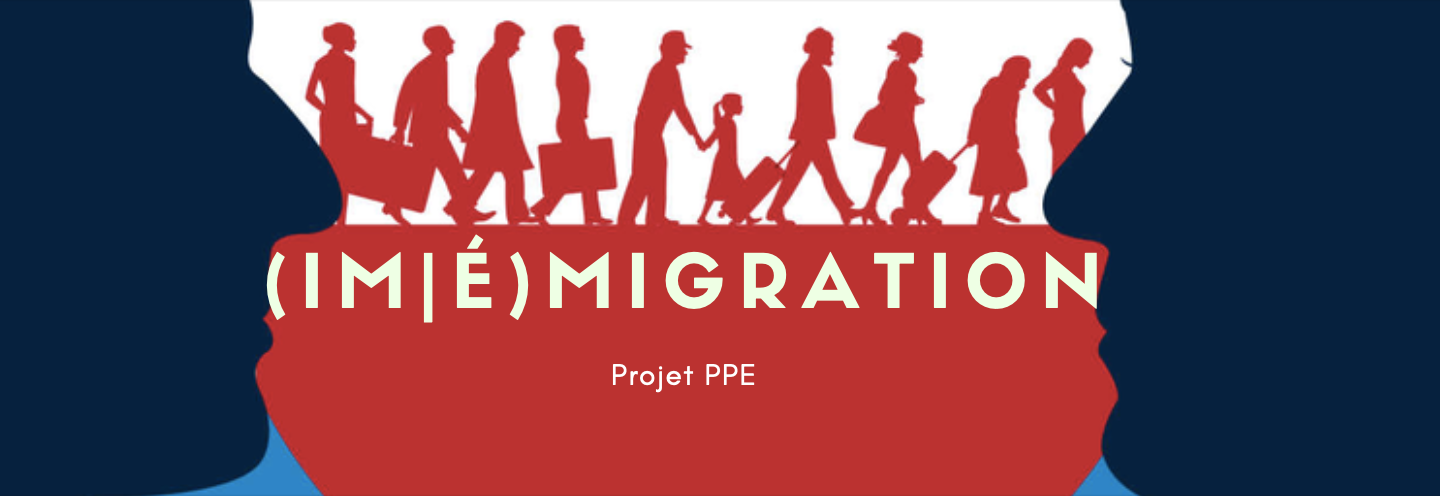
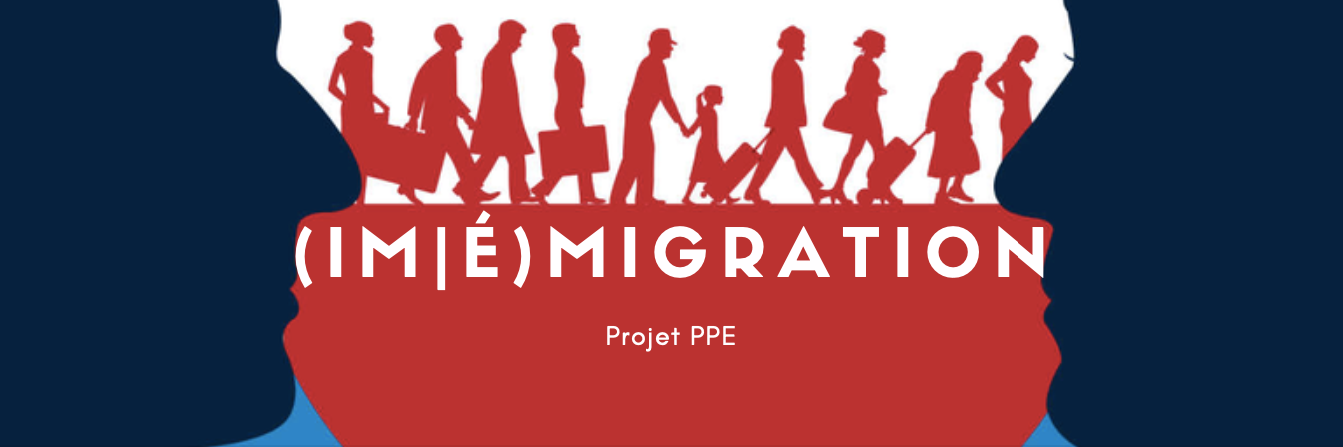
Modifications sur le site + modification de l'image du header (par Micha)

Changed region(s): [[0.0916, 0.0, 0.8243, 1.0], [0.4274, 0.7271, 0.5495, 0.7852]]

diff --git a/index.html b/index.html
@@ -51,17 +51,37 @@
 			</div>
 		</nav>
 		<!--CONTENU-->
-		<h1 class="title has-text-centered" id="introduction">Introduction</h1>
-		<p class="block has-text-centered">
-			C'est l'introduction ici, on mettra des images étouC'est l'introduction ici, on mettra des images étouC'est l'introduction ici, on mettra des images étouC'est l'introduction ici, on mettra des images étouC'est l'introduction ici, on mettra des images étouC'est l'introduction ici, on mettra des images étouC'est l'introduction ici, on mettra des images étouC'est l'introduction ici, on mettra des images étouC'est l'introduction ici, on mettra des images étouC'est l'introduction ici, on mettra des images étouC'est l'introduction ici, on mettra des images étouC'est l'introduction ici, on mettra des images étouC'est l'introduction ici, on mettra des images étouC'est l'introduction ici, on mettra des images étouC'est l'introduction ici, on mettra des images étouC'est l'introduction ici, on mettra des images étouC'est l'introduction ici, on mettra des images étouC'est l'introduction ici, on mettra des images étouC'est l'introduction ici, on mettra des images étouC'est l'introduction ici, on mettra des images étouC'est l'introduction ici, on mettra des images étouC'est l'introduction ici, on mettra des images étouC'est l'introduction ici, on mettra des images étouC'est l'introduction ici, on mettra des images étouC'est l'introduction ici, on mettra des images étouC'est l'introduction ici, on mettra des images étouC'est l'introduction ici, on mettra des images étouC'est l'introduction ici, on mettra des images étouC'est l'introduction ici, on mettra des images étouC'est l'introduction ici, on mettra des images étouC'est l'introduction ici, on mettra des images étouC'est l'introduction ici, on mettra des images étouC'est l'introduction ici, on mettra des images étouC'est l'introduction ici, on mettra des images étouC'est l'introduction ici, on mettra des images étouC'est l'introduction ici, on mettra des images étouC'est l'introduction ici, on mettra des images étouC'est l'introduction ici, on mettra des images étouC'est l'introduction ici, on mettra des images étouC'est l'introduction ici, on mettra des images étouC'est l'introduction ici, on mettra des images étouC'est l'introduction ici, on mettra des images étouC'est l'introduction ici, on mettra des images étouC'est l'introduction ici, on mettra des images étouC'est l'introduction ici, on mettra des images étouC'est l'introduction ici, on mettra des images étouC'est l'introduction ici, on mettra des images étouC'est l'introduction ici, on mettra des images étouC'est l'introduction ici, on mettra des images étouC'est l'introduction ici, on mettra des images étouC'est l'introduction ici, on mettra des images étouC'est l'introduction ici, on mettra des images étouC'est l'introduction ici, on mettra des images étouC'est l'introduction ici, on mettra des images étouC'est l'introduction ici, on mettra des images étouC'est l'introduction ici, on mettra des images étouC'est l'introduction ici, on mettra des images étouC'est l'introduction ici, on mettra des images étouC'est l'introduction ici, on mettra des images étouC'est l'introduction ici, on mettra des images étouC'est l'introduction ici, on mettra des images étouC'est l'introduction ici, on mettra des images étouC'est l'introduction ici, on mettra des images étouC'est l'introduction ici, on mettra des images étouC'est l'introduction ici, on mettra des images étouC'est l'introduction ici, on mettra des images étouC'est l'introduction ici, on mettra des images étouC'est l'introduction ici, on mettra des images étouC'est l'introduction ici, on mettra des images étouC'est l'introduction ici, on mettra des images étouC'est l'introduction ici, on mettra des images étouC'est l'introduction ici, on mettra des images étouC'est l'introduction ici, on mettra des images étouC'est l'introduction ici, on mettra des images étouC'est l'introduction ici, on mettra des images étouC'est l'introduction ici, on mettra des images étouC'est l'introduction ici, on mettra des images étouC'est l'introduction ici, on mettra des images étouC'est l'introduction ici, on mettra des images étouC'est l'introduction ici, on mettra des images étouC'est l'introduction ici, on mettra des images étouC'est l'introduction ici, on mettra des images étouC'est l'introduction ici, on mettra des images étouC'est l'introduction ici, on mettra des images étouC'est l'introduction ici, on mettra des images étouC'est l'introduction ici, on mettra des images étouC'est l'introduction ici, on mettra des images étouC'est l'introduction ici, on mettra des images étouC'est l'introduction ici, on mettra des images étouC'est l'introduction ici, on mettra des images étouC'est l'introduction ici, on mettra des images étouC'est l'introduction ici, on mettra des images étou
-		</p>
-		<h1 class="title has-text-centered" id="analyse">Analyse</h1>
-		<p class="block has-text-centered">
-			C'est l'introduction ici, on mettra des images étouC'est l'introduction ici, on mettra des images étouC'est l'introduction ici, on mettra des images étouC'est l'introduction ici, on mettra des images étouC'est l'introduction ici, on mettra des images étouC'est l'introduction ici, on mettra des images étouC'est l'introduction ici, on mettra des images étouC'est l'introduction ici, on mettra des images étouC'est l'introduction ici, on mettra des images étouC'est l'introduction ici, on mettra des images étouC'est l'introduction ici, on mettra des images étouC'est l'introduction ici, on mettra des images étouC'est l'introduction ici, on mettra des images étouC'est l'introduction ici, on mettra des images étouC'est l'introduction ici, on mettra des images étouC'est l'introduction ici, on mettra des images étouC'est l'introduction ici, on mettra des images étouC'est l'introduction ici, on mettra des images étouC'est l'introduction ici, on mettra des images étouC'est l'introduction ici, on mettra des images étouC'est l'introduction ici, on mettra des images étouC'est l'introduction ici, on mettra des images étouC'est l'introduction ici, on mettra des images étouC'est l'introduction ici, on mettra des images étouC'est l'introduction ici, on mettra des images étouC'est l'introduction ici, on mettra des images étouC'est l'introduction ici, on mettra des images étouC'est l'introduction ici, on mettra des images étouC'est l'introduction ici, on mettra des images étouC'est l'introduction ici, on mettra des images étouC'est l'introduction ici, on mettra des images étouC'est l'introduction ici, on mettra des images étouC'est l'introduction ici, on mettra des images étouC'est l'introduction ici, on mettra des images étouC'est l'introduction ici, on mettra des images étouC'est l'introduction ici, on mettra des images étouC'est l'introduction ici, on mettra des images étouC'est l'introduction ici, on mettra des images étouC'est l'introduction ici, on mettra des images étouC'est l'introduction ici, on mettra des images étouC'est l'introduction ici, on mettra des images étouC'est l'introduction ici, on mettra des images étouC'est l'introduction ici, on mettra des images étouC'est l'introduction ici, on mettra des images étouC'est l'introduction ici, on mettra des images étouC'est l'introduction ici, on mettra des images étouC'est l'introduction ici, on mettra des images étouC'est l'introduction ici, on mettra des images étouC'est l'introduction ici, on mettra des images étouC'est l'introduction ici, on mettra des images étouC'est l'introduction ici, on mettra des images étouC'est l'introduction ici, on mettra des images étouC'est l'introduction ici, on mettra des images étouC'est l'introduction ici, on mettra des images étouC'est l'introduction ici, on mettra des images étouC'est l'introduction ici, on mettra des images étouC'est l'introduction ici, on mettra des images étouC'est l'introduction ici, on mettra des images étouC'est l'introduction ici, on mettra des images étouC'est l'introduction ici, on mettra des images étouC'est l'introduction ici, on mettra des images étouC'est l'introduction ici, on mettra des images étouC'est l'introduction ici, on mettra des images étouC'est l'introduction ici, on mettra des images étouC'est l'introduction ici, on mettra des images étouC'est l'introduction ici, on mettra des images étouC'est l'introduction ici, on mettra des images étouC'est l'introduction ici, on mettra des images étouC'est l'introduction ici, on mettra des images étouC'est l'introduction ici, on mettra des images étouC'est l'introduction ici, on mettra des images étouC'est l'introduction ici, on mettra des images étouC'est l'introduction ici, on mettra des images étouC'est l'introduction ici, on mettra des images étouC'est l'introduction ici, on mettra des images étouC'est l'introduction ici, on mettra des images étouC'est l'introduction ici, on mettra des images étouC'est l'introduction ici, on mettra des images étouC'est l'introduction ici, on mettra des images étouC'est l'introduction ici, on mettra des images étouC'est l'introduction ici, on mettra des images étouC'est l'introduction ici, on mettra des images étouC'est l'introduction ici, on mettra des images étouC'est l'introduction ici, on mettra des images étouC'est l'introduction ici, on mettra des images étouC'est l'introduction ici, on mettra des images étouC'est l'introduction ici, on mettra des images étouC'est l'introduction ici, on mettra des images étouC'est l'introduction ici, on mettra des images étouC'est l'introduction ici, on mettra des images étouC'est l'introduction ici, on mettra des images étouC'est l'introduction ici, on mettra des images étou
-		</p>
-		<h1 class="title has-text-centered" id="aPropos">À propos</h1>
-		<p class="block has-text-centered">
-			C'est l'introduction ici, on mettra des images étouC'est l'introduction ici, on mettra des images étouC'est l'introduction ici, on mettra des images étouC'est l'introduction ici, on mettra des images étouC'est l'introduction ici, on mettra des images étouC'est l'introduction ici, on mettra des images étouC'est l'introduction ici, on mettra des images étouC'est l'introduction ici, on mettra des images étouC'est l'introduction ici, on mettra des images étouC'est l'introduction ici, on mettra des images étouC'est l'introduction ici, on mettra des images étouC'est l'introduction ici, on mettra des images étouC'est l'introduction ici, on mettra des images étouC'est l'introduction ici, on mettra des images étouC'est l'introduction ici, on mettra des images étouC'est l'introduction ici, on mettra des images étouC'est l'introduction ici, on mettra des images étouC'est l'introduction ici, on mettra des images étouC'est l'introduction ici, on mettra des images étouC'est l'introduction ici, on mettra des images étouC'est l'introduction ici, on mettra des images étouC'est l'introduction ici, on mettra des images étouC'est l'introduction ici, on mettra des images étouC'est l'introduction ici, on mettra des images étouC'est l'introduction ici, on mettra des images étouC'est l'introduction ici, on mettra des images étouC'est l'introduction ici, on mettra des images étouC'est l'introduction ici, on mettra des images étouC'est l'introduction ici, on mettra des images étouC'est l'introduction ici, on mettra des images étouC'est l'introduction ici, on mettra des images étouC'est l'introduction ici, on mettra des images étouC'est l'introduction ici, on mettra des images étouC'est l'introduction ici, on mettra des images étouC'est l'introduction ici, on mettra des images étouC'est l'introduction ici, on mettra des images étouC'est l'introduction ici, on mettra des images étouC'est l'introduction ici, on mettra des images étouC'est l'introduction ici, on mettra des images étouC'est l'introduction ici, on mettra des images étouC'est l'introduction ici, on mettra des images étouC'est l'introduction ici, on mettra des images étouC'est l'introduction ici, on mettra des images étouC'est l'introduction ici, on mettra des images étouC'est l'introduction ici, on mettra des images étouC'est l'introduction ici, on mettra des images étouC'est l'introduction ici, on mettra des images étouC'est l'introduction ici, on mettra des images étouC'est l'introduction ici, on mettra des images étouC'est l'introduction ici, on mettra des images étouC'est l'introduction ici, on mettra des images étouC'est l'introduction ici, on mettra des images étouC'est l'introduction ici, on mettra des images étouC'est l'introduction ici, on mettra des images étouC'est l'introduction ici, on mettra des images étouC'est l'introduction ici, on mettra des images étouC'est l'introduction ici, on mettra des images étouC'est l'introduction ici, on mettra des images étouC'est l'introduction ici, on mettra des images étouC'est l'introduction ici, on mettra des images étouC'est l'introduction ici, on mettra des images étouC'est l'introduction ici, on mettra des images étouC'est l'introduction ici, on mettra des images étouC'est l'introduction ici, on mettra des images étouC'est l'introduction ici, on mettra des images étouC'est l'introduction ici, on mettra des images étouC'est l'introduction ici, on mettra des images étouC'est l'introduction ici, on mettra des images étouC'est l'introduction ici, on mettra des images étouC'est l'introduction ici, on mettra des images étouC'est l'introduction ici, on mettra des images étouC'est l'introduction ici, on mettra des images étouC'est l'introduction ici, on mettra des images étouC'est l'introduction ici, on mettra des images étouC'est l'introduction ici, on mettra des images étouC'est l'introduction ici, on mettra des images étouC'est l'introduction ici, on mettra des images étouC'est l'introduction ici, on mettra des images étouC'est l'introduction ici, on mettra des images étouC'est l'introduction ici, on mettra des images étouC'est l'introduction ici, on mettra des images étouC'est l'introduction ici, on mettra des images étouC'est l'introduction ici, on mettra des images étouC'est l'introduction ici, on mettra des images étouC'est l'introduction ici, on mettra des images étouC'est l'introduction ici, on mettra des images étouC'est l'introduction ici, on mettra des images étouC'est l'introduction ici, on mettra des images étouC'est l'introduction ici, on mettra des images étouC'est l'introduction ici, on mettra des images étouC'est l'introduction ici, on mettra des images étouC'est l'introduction ici, on mettra des images étou
-		</p>
+		<div class="has-text-centered", style="background-color: #3084c5;">
+			<h1 class="title" id="introduction" style="background-color: #bb3230;">Introduction</h1>
+			<div class="columns">
+				<div class="column is-one-fifth"></div>
+				<div class="column">
+					<p class="block" style="background-color: white;">
+						C'est l'introduction ici, on mettra des images étouC'est l'introduction ici, on mettra des images étouC'est l'introduction ici, on mettra des images étouC'est l'introduction ici, on mettra des images étouC'est l'introduction ici, on mettra des images étouC'est l'introduction ici, on mettra des images étouC'est l'introduction ici, on mettra des images étouC'est l'introduction ici, on mettra des images étouC'est l'introduction ici, on mettra des images étouC'est l'introduction ici, on mettra des images étouC'est l'introduction ici, on mettra des images étouC'est l'introduction ici, on mettra des images étouC'est l'introduction ici, on mettra des images étouC'est l'introduction ici, on mettra des images étouC'est l'introduction ici, on mettra des images étouC'est l'introduction ici, on mettra des images étouC'est l'introduction ici, on mettra des images étouC'est l'introduction ici, on mettra des images étouC'est l'introduction ici, on mettra des images étouC'est l'introduction ici, on mettra des images étouC'est l'introduction ici, on mettra des images étouC'est l'introduction ici, on mettra des images étouC'est l'introduction ici, on mettra des images étouC'est l'introduction ici, on mettra des images étouC'est l'introduction ici, on mettra des images étouC'est l'introduction ici, on mettra des images étouC'est l'introduction ici, on mettra des images étouC'est l'introduction ici, on mettra des images étouC'est l'introduction ici, on mettra des images étouC'est l'introduction ici, on mettra des images étouC'est l'introduction ici, on mettra des images étouC'est l'introduction ici, on mettra des images étouC'est l'introduction ici, on mettra des images étouC'est l'introduction ici, on mettra des images étouC'est l'introduction ici, on mettra des images étouC'est l'introduction ici, on mettra des images étouC'est l'introduction ici, on mettra des images étouC'est l'introduction ici, on mettra des images étouC'est l'introduction ici, on mettra des images étouC'est l'introduction ici, on mettra des images étouC'est l'introduction ici, on mettra des images étouC'est l'introduction ici, on mettra des images étouC'est l'introduction ici, on mettra des images étouC'est l'introduction ici, on mettra des images étouC'est l'introduction ici, on mettra des images étouC'est l'introduction ici, on mettra des images étouC'est l'introduction ici, on mettra des images étouC'est l'introduction ici, on mettra des images étouC'est l'introduction ici, on mettra des images étouC'est l'introduction ici, on mettra des images étouC'est l'introduction ici, on mettra des images étouC'est l'introduction ici, on mettra des images étouC'est l'introduction ici, on mettra des images étouC'est l'introduction ici, on mettra des images étouC'est l'introduction ici, on mettra des images étouC'est l'introduction ici, on mettra des images étouC'est l'introduction ici, on mettra des images étouC'est l'introduction ici, on mettra des images étouC'est l'introduction ici, on mettra des images étouC'est l'introduction ici, on mettra des images étouC'est l'introduction ici, on mettra des images étouC'est l'introduction ici, on mettra des images étouC'est l'introduction ici, on mettra des images étouC'est l'introduction ici, on mettra des images étouC'est l'introduction ici, on mettra des images étouC'est l'introduction ici, on mettra des images étouC'est l'introduction ici, on mettra des images étouC'est l'introduction ici, on mettra des images étouC'est l'introduction ici, on mettra des images étouC'est l'introduction ici, on mettra des images étouC'est l'introduction ici, on mettra des images étouC'est l'introduction ici, on mettra des images étouC'est l'introduction ici, on mettra des images étouC'est l'introduction ici, on mettra des images étouC'est l'introduction ici, on mettra des images étouC'est l'introduction ici, on mettra des images étouC'est l'introduction ici, on mettra des images étouC'est l'introduction ici, on mettra des images étouC'est l'introduction ici, on mettra des images étouC'est l'introduction ici, on mettra des images étouC'est l'introduction ici, on mettra des images étouC'est l'introduction ici, on mettra des images étouC'est l'introduction ici, on mettra des images étouC'est l'introduction ici, on mettra des images étouC'est l'introduction ici, on mettra des images étouC'est l'introduction ici, on mettra des images étouC'est l'introduction ici, on mettra des images étouC'est l'introduction ici, on mettra des images étouC'est l'introduction ici, on mettra des images étouC'est l'introduction ici, on mettra des images étouC'est l'introduction ici, on mettra des images étouC'est l'introduction ici, on mettra des images étou
+					</p>
+				</div>
+				<div class="column is-one-fifth"></div>
+			</div>
+			<h1 class="title" id="analyse" style="background-color: #bb3230;">Analyse</h1>
+			<div class="columns">
+				<div class="column is-one-fifth"></div>
+				<div class="column">
+					<p class="block" style="background-color: white;">
+						C'est l'introduction ici, on mettra des images étouC'est l'introduction ici, on mettra des images étouC'est l'introduction ici, on mettra des images étouC'est l'introduction ici, on mettra des images étouC'est l'introduction ici, on mettra des images étouC'est l'introduction ici, on mettra des images étouC'est l'introduction ici, on mettra des images étouC'est l'introduction ici, on mettra des images étouC'est l'introduction ici, on mettra des images étouC'est l'introduction ici, on mettra des images étouC'est l'introduction ici, on mettra des images étouC'est l'introduction ici, on mettra des images étouC'est l'introduction ici, on mettra des images étouC'est l'introduction ici, on mettra des images étouC'est l'introduction ici, on mettra des images étouC'est l'introduction ici, on mettra des images étouC'est l'introduction ici, on mettra des images étouC'est l'introduction ici, on mettra des images étouC'est l'introduction ici, on mettra des images étouC'est l'introduction ici, on mettra des images étouC'est l'introduction ici, on mettra des images étouC'est l'introduction ici, on mettra des images étouC'est l'introduction ici, on mettra des images étouC'est l'introduction ici, on mettra des images étouC'est l'introduction ici, on mettra des images étouC'est l'introduction ici, on mettra des images étouC'est l'introduction ici, on mettra des images étouC'est l'introduction ici, on mettra des images étouC'est l'introduction ici, on mettra des images étouC'est l'introduction ici, on mettra des images étouC'est l'introduction ici, on mettra des images étouC'est l'introduction ici, on mettra des images étouC'est l'introduction ici, on mettra des images étouC'est l'introduction ici, on mettra des images étouC'est l'introduction ici, on mettra des images étouC'est l'introduction ici, on mettra des images étouC'est l'introduction ici, on mettra des images étouC'est l'introduction ici, on mettra des images étouC'est l'introduction ici, on mettra des images étouC'est l'introduction ici, on mettra des images étouC'est l'introduction ici, on mettra des images étouC'est l'introduction ici, on mettra des images étouC'est l'introduction ici, on mettra des images étouC'est l'introduction ici, on mettra des images étouC'est l'introduction ici, on mettra des images étouC'est l'introduction ici, on mettra des images étouC'est l'introduction ici, on mettra des images étouC'est l'introduction ici, on mettra des images étouC'est l'introduction ici, on mettra des images étouC'est l'introduction ici, on mettra des images étouC'est l'introduction ici, on mettra des images étouC'est l'introduction ici, on mettra des images étouC'est l'introduction ici, on mettra des images étouC'est l'introduction ici, on mettra des images étouC'est l'introduction ici, on mettra des images étouC'est l'introduction ici, on mettra des images étouC'est l'introduction ici, on mettra des images étouC'est l'introduction ici, on mettra des images étouC'est l'introduction ici, on mettra des images étouC'est l'introduction ici, on mettra des images étouC'est l'introduction ici, on mettra des images étouC'est l'introduction ici, on mettra des images étouC'est l'introduction ici, on mettra des images étouC'est l'introduction ici, on mettra des images étouC'est l'introduction ici, on mettra des images étouC'est l'introduction ici, on mettra des images étouC'est l'introduction ici, on mettra des images étouC'est l'introduction ici, on mettra des images étouC'est l'introduction ici, on mettra des images étouC'est l'introduction ici, on mettra des images étouC'est l'introduction ici, on mettra des images étouC'est l'introduction ici, on mettra des images étouC'est l'introduction ici, on mettra des images étouC'est l'introduction ici, on mettra des images étouC'est l'introduction ici, on mettra des images étouC'est l'introduction ici, on mettra des images étouC'est l'introduction ici, on mettra des images étouC'est l'introduction ici, on mettra des images étouC'est l'introduction ici, on mettra des images étouC'est l'introduction ici, on mettra des images étouC'est l'introduction ici, on mettra des images étouC'est l'introduction ici, on mettra des images étouC'est l'introduction ici, on mettra des images étouC'est l'introduction ici, on mettra des images étouC'est l'introduction ici, on mettra des images étouC'est l'introduction ici, on mettra des images étouC'est l'introduction ici, on mettra des images étouC'est l'introduction ici, on mettra des images étouC'est l'introduction ici, on mettra des images étouC'est l'introduction ici, on mettra des images étouC'est l'introduction ici, on mettra des images étouC'est l'introduction ici, on mettra des images étou
+					</p>
+				</div>
+				<div class="column is-one-fifth"></div>
+			</div>
+			<h1 class="title" id="aPropos" style="background-color: #bb3230;">À propos</h1>
+			<div class="columns">
+				<div class="column is-one-fifth"></div>
+				<div class="column">
+					<p class="block" style="background-color: white;">
+						C'est l'introduction ici, on mettra des images étouC'est l'introduction ici, on mettra des images étouC'est l'introduction ici, on mettra des images étouC'est l'introduction ici, on mettra des images étouC'est l'introduction ici, on mettra des images étouC'est l'introduction ici, on mettra des images étouC'est l'introduction ici, on mettra des images étouC'est l'introduction ici, on mettra des images étouC'est l'introduction ici, on mettra des images étouC'est l'introduction ici, on mettra des images étouC'est l'introduction ici, on mettra des images étouC'est l'introduction ici, on mettra des images étouC'est l'introduction ici, on mettra des images étouC'est l'introduction ici, on mettra des images étouC'est l'introduction ici, on mettra des images étouC'est l'introduction ici, on mettra des images étouC'est l'introduction ici, on mettra des images étouC'est l'introduction ici, on mettra des images étouC'est l'introduction ici, on mettra des images étouC'est l'introduction ici, on mettra des images étouC'est l'introduction ici, on mettra des images étouC'est l'introduction ici, on mettra des images étouC'est l'introduction ici, on mettra des images étouC'est l'introduction ici, on mettra des images étouC'est l'introduction ici, on mettra des images étouC'est l'introduction ici, on mettra des images étouC'est l'introduction ici, on mettra des images étouC'est l'introduction ici, on mettra des images étouC'est l'introduction ici, on mettra des images étouC'est l'introduction ici, on mettra des images étouC'est l'introduction ici, on mettra des images étouC'est l'introduction ici, on mettra des images étouC'est l'introduction ici, on mettra des images étouC'est l'introduction ici, on mettra des images étouC'est l'introduction ici, on mettra des images étouC'est l'introduction ici, on mettra des images étouC'est l'introduction ici, on mettra des images étouC'est l'introduction ici, on mettra des images étouC'est l'introduction ici, on mettra des images étouC'est l'introduction ici, on mettra des images étouC'est l'introduction ici, on mettra des images étouC'est l'introduction ici, on mettra des images étouC'est l'introduction ici, on mettra des images étouC'est l'introduction ici, on mettra des images étouC'est l'introduction ici, on mettra des images étouC'est l'introduction ici, on mettra des images étouC'est l'introduction ici, on mettra des images étouC'est l'introduction ici, on mettra des images étouC'est l'introduction ici, on mettra des images étouC'est l'introduction ici, on mettra des images étouC'est l'introduction ici, on mettra des images étouC'est l'introduction ici, on mettra des images étouC'est l'introduction ici, on mettra des images étouC'est l'introduction ici, on mettra des images étouC'est l'introduction ici, on mettra des images étouC'est l'introduction ici, on mettra des images étouC'est l'introduction ici, on mettra des images étouC'est l'introduction ici, on mettra des images étouC'est l'introduction ici, on mettra des images étouC'est l'introduction ici, on mettra des images étouC'est l'introduction ici, on mettra des images étouC'est l'introduction ici, on mettra des images étouC'est l'introduction ici, on mettra des images étouC'est l'introduction ici, on mettra des images étouC'est l'introduction ici, on mettra des images étouC'est l'introduction ici, on mettra des images étouC'est l'introduction ici, on mettra des images étouC'est l'introduction ici, on mettra des images étouC'est l'introduction ici, on mettra des images étouC'est l'introduction ici, on mettra des images étouC'est l'introduction ici, on mettra des images étouC'est l'introduction ici, on mettra des images étouC'est l'introduction ici, on mettra des images étouC'est l'introduction ici, on mettra des images étouC'est l'introduction ici, on mettra des images étouC'est l'introduction ici, on mettra des images étouC'est l'introduction ici, on mettra des images étouC'est l'introduction ici, on mettra des images étouC'est l'introduction ici, on mettra des images étouC'est l'introduction ici, on mettra des images étouC'est l'introduction ici, on mettra des images étouC'est l'introduction ici, on mettra des images étouC'est l'introduction ici, on mettra des images étouC'est l'introduction ici, on mettra des images étouC'est l'introduction ici, on mettra des images étouC'est l'introduction ici, on mettra des images étouC'est l'introduction ici, on mettra des images étouC'est l'introduction ici, on mettra des images étouC'est l'introduction ici, on mettra des images étouC'est l'introduction ici, on mettra des images étouC'est l'introduction ici, on mettra des images étouC'est l'introduction ici, on mettra des images étou
+					</p>
+				</div>
+				<div class="column is-one-fifth"></div>
+			</div>
+		</div>
 	</body>
 </html>
